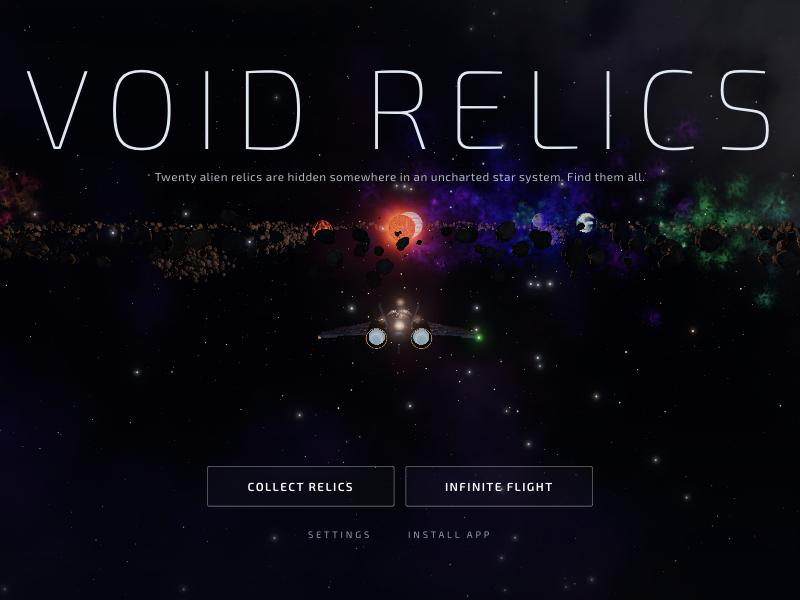
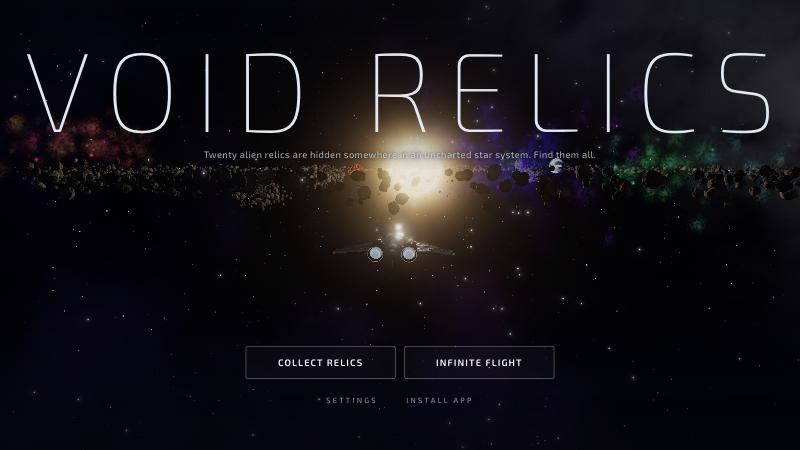
Keep the golden sun in the default galaxy, on the title screen and a first launch
Galaxy 1337 always gets a G8 V star sized to the old 2600 m and drawn with the
original hand-tuned golden palette, glow and light, so its layout and look are
exactly what they were before stars had classes. Every other galaxy still
draws its own class.

diff --git a/src/world/stars.ts b/src/world/stars.ts
@@ -34,6 +34,8 @@ export type Star = {
   radius: number;
   /** Luminosity in solar luminosities. */
   luminosity: number;
+  /** Drawn with the hand-tuned golden look of the game's original sun, not its black-body colours. */
+  golden?: true;
 };
 
 export type Rgb = [number, number, number];
@@ -289,7 +291,24 @@ export const RADIUS_POWER = 0.4;
 
 export const gameRadius = (star: Star): number => SUN_RADIUS_M * star.radius ** RADIUS_POWER;
 
+/**
+ * The original sun's look, as it was tuned by hand before stars had classes (tint #ffd27a):
+ * yellower than a real G star, and the title screen's centrepiece.
+ */
+const GOLDEN_LOOK: Omit<StarLook, 'radius'> = {
+  hot: [1, 0.82, 0.5],
+  mid: [1, 0.508344, 0.100385],
+  deep: [0.8, 0.14, 0.01],
+  corona: [1, 0.59724, 0.197309],
+  gain: 1.9,
+  reach: 6.8,
+  cells: 18,
+  light: [1, 0.82224, 0.597309],
+  lightIntensity: 2.6,
+};
+
 export function starLook(star: Star): StarLook {
+  if (star.golden) return { radius: gameRadius(star), ...GOLDEN_LOOK };
   const t = star.teff;
   // Real star colours are pale; deepen them so a red star reads red. Hot stars would turn flat
   // blue under the same treatment, so they get less of it.
@@ -346,6 +365,17 @@ export function sampleSystemStar(rng: Rng): Star {
   }
   return sampleStar(rng, 'G');
 }
+
+/**
+ * The golden sun the default galaxy has always had, in its original look: a late G dwarf
+ * (G8 V, Mamajek's 5480 K), sized to the 2600 m the relic hunt's star was before stars had
+ * classes, so that galaxy's planets, relics and debris stay exactly where they were.
+ */
+export const GOLDEN_SUN: Star = (() => {
+  const radius = (2600 / SUN_RADIUS_M) ** (1 / RADIUS_POWER);
+  const teff = mainSequenceAt(48).teff;
+  return { family: 'G', spectral: 'G8 V', teff, radius, luminosity: luminosityOf(radius, teff), golden: true };
+})();
 
 /** A linear colour as a CSS hex string (sRGB-encoded), for the map. */
 export function cssColor(c: Rgb): string {

diff --git a/src/world/generate.test.ts b/src/world/generate.test.ts
@@ -1,8 +1,8 @@
 import { test } from 'node:test';
 import assert from 'node:assert/strict';
 import { readFileSync } from 'node:fs';
-import { ARTIFACT_COUNT, JUNK_VARIANTS, MIN_ARTIFACT_SPACING, WORLD_RADIUS, dist, generateAsteroids, generateJunk, generateWorld, junkNormal, type Vec3 } from './generate.ts';
-import { SYSTEM_FAMILIES, SYSTEM_STAR_MAX_M, gameRadius } from './stars.ts';
+import { ARTIFACT_COUNT, DEFAULT_SEED, JUNK_VARIANTS, MIN_ARTIFACT_SPACING, WORLD_RADIUS, dist, generateAsteroids, generateJunk, generateWorld, junkNormal, type Vec3 } from './generate.ts';
+import { GOLDEN_SUN, SYSTEM_FAMILIES, SYSTEM_STAR_MAX_M, gameRadius } from './stars.ts';
 
 const SEEDS = [1, 7, 1337, 2024, 99991, 123456789];
 
@@ -63,6 +63,16 @@ test('exactly one artifact is placed as a dare near the star, inside the heat zo
   const hot = w.artifacts.filter((a) => dist(a.position, w.sun.position) < w.sun.heatRadius);
   assert.equal(hot.length, 1);
   assert.equal(hot[0]!.context, 'sun');
+});
+
+test('the default galaxy keeps its golden sun, exactly as big as it always was', () => {
+  const w = generateWorld(DEFAULT_SEED);
+  assert.equal(DEFAULT_SEED, 1337);
+  assert.deepEqual(w.sun.star, GOLDEN_SUN);
+  assert.equal(w.sun.star.family, 'G');
+  assert.ok(Math.abs(w.sun.radius - 2600) < 1e-6, `${w.sun.radius}`);
+  // Other galaxies draw their own.
+  assert.notDeepEqual(generateWorld(DEFAULT_SEED + 1).sun.star, GOLDEN_SUN);
 });
 
 test('every class of star leaves the system playable', () => {

diff --git a/src/world/generate.ts b/src/world/generate.ts
@@ -1,6 +1,6 @@
 import { createRng, type Rng } from '../core/rng.ts';
 import { makeName, roman } from './names.ts';
-import { gameRadius, sampleSystemStar, type Star } from './stars.ts';
+import { GOLDEN_SUN, gameRadius, sampleSystemStar, type Star } from './stars.ts';
 
 /**
  * The star system as plain data. Everything the renderer draws and the game collides with is
@@ -102,6 +102,8 @@ export type World = {
   junk: JunkRing | null;
 };
 
+/** The galaxy of the title screen and of a first launch (no ?seed= in the address). */
+export const DEFAULT_SEED = 1337;
 export const WORLD_RADIUS = 60000;
 export const ARTIFACT_COUNT = 20;
 export const ASTEROID_VARIANTS = 6;
@@ -172,8 +174,9 @@ export function generateWorld(seed: number): World {
   const nameRng = root.fork('names');
 
   // The star's class comes from its own stream: a white dwarf or a red dwarf in place of the old
-  // yellow sun moves nothing else that does not depend on the star's size.
-  const star = sampleSystemStar(root.fork('star-class'));
+  // yellow sun moves nothing else that does not depend on the star's size. The default galaxy,
+  // the one on the title screen, keeps its golden sun.
+  const star = seed === DEFAULT_SEED ? GOLDEN_SUN : sampleSystemStar(root.fork('star-class'));
   const sunRadius = gameRadius(star);
   const sun: Sun = {
     position: [0, 0, 0],

diff --git a/src/world/stars.test.ts b/src/world/stars.test.ts
@@ -5,6 +5,7 @@ import {
   CLASS_CODES,
   EVOLVED,
   FAMILY_WEIGHTS,
+  GOLDEN_SUN,
   MAIN_SEQUENCE,
   SUN_RADIUS_M,
   SYSTEM_FAMILIES,
@@ -183,4 +184,13 @@ test('map colours are sRGB hex', () => {
   assert.equal(cssColor([0, 0, 0]), '#000000');
   assert.equal(cssColor([0.2159, 0.2159, 0.2159]), '#808080');
   assert.equal(cssColor([2, -1, 0.5]), '#ff00bc');
+});
+
+test("the golden sun keeps the original sun's hand-tuned look", () => {
+  const look = starLook(GOLDEN_SUN);
+  assert.ok(Math.abs(look.radius - 2600) < 1e-6);
+  assert.deepEqual([look.hot, look.deep, look.gain, look.reach, look.cells], [[1, 0.82, 0.5], [0.8, 0.14, 0.01], 1.9, 6.8, 18]);
+  // A real G8 V of the same numbers is paler: the golden look is the exception, not the rule.
+  const plain = starLook({ ...GOLDEN_SUN, golden: undefined });
+  assert.notDeepEqual(plain.hot, look.hot);
 });

diff --git a/src/main.ts b/src/main.ts
@@ -1,5 +1,6 @@
 import './style.css';
 import { Game } from './game/game.ts';
+import { DEFAULT_SEED } from './world/generate.ts';
 import { SETTINGS_KEY, defaultSettings, parseSettings, readStore } from './game/settings.ts';
 import { t } from './text.ts';
 import { captureInstallPrompt, registerServiceWorker } from './ui/install.ts';
@@ -10,8 +11,6 @@ captureInstallPrompt();
 // Full screen (and the installed app) keeps the phone's screen on.
 createWakeLock();
 if (import.meta.env.PROD) registerServiceWorker(window);
-
-const DEFAULT_SEED = 1337;
 
 function seedFromUrl(): number {
   const raw = new URLSearchParams(window.location.search).get('seed');

diff --git a/AGENTS.md b/AGENTS.md
@@ -123,6 +123,10 @@ npm run verify   # tsc --noEmit + node --test "src/**/*.test.ts" — green befor
   whose warning zone (2.6 radii) keeps the innermost planet (~11 km) outside it: M, K, G, F,
   cooler A dwarfs and white dwarfs, at most `SYSTEM_STAR_MAX_M`. A giant would swallow the
   system; letting one in means moving the planets out too.
+- **The default galaxy keeps its golden sun.** `DEFAULT_SEED` (1337, the title screen and a
+  first launch) always gets `GOLDEN_SUN`: a G8 V sized to the old 2600 m, with the original
+  hand-tuned golden palette (`golden: true` in `starLook()`), so its layout and look are exactly
+  what they were before stars had classes.
 - **One light per star would recompile everything.** Three.js rebuilds every material's
   shader when the number of lights changes, so infinite flight drops each star's PointLight
   and moves a single DirectionalLight instead.

diff --git a/README.md b/README.md
@@ -18,7 +18,8 @@ the build contains no images (beyond the app icons, which a script draws) and no
   galaxy: a red, orange or yellow dwarf, a yellow-white F or white A star, or a white dwarf a
   few hundred metres across, each with its temperature, size and luminosity from the reference
   tables (see Infinite flight below). Its class sets its colour, size, brightness and the light
-  it casts; the map and the HUD name it. You can fly close, but inside ~1.9 radii the hull
+  it casts; the map and the HUD name it. The default galaxy (the title screen and a first
+  launch) keeps the golden sun it has always had. You can fly close, but inside ~1.9 radii the hull
   starts to heat up, and at the surface it burns through in seconds. The heat zone is marked on
   the map.
 - **Six planets**: lava, desert or rocky, an Earth-like world with clouds and city lights, gas
